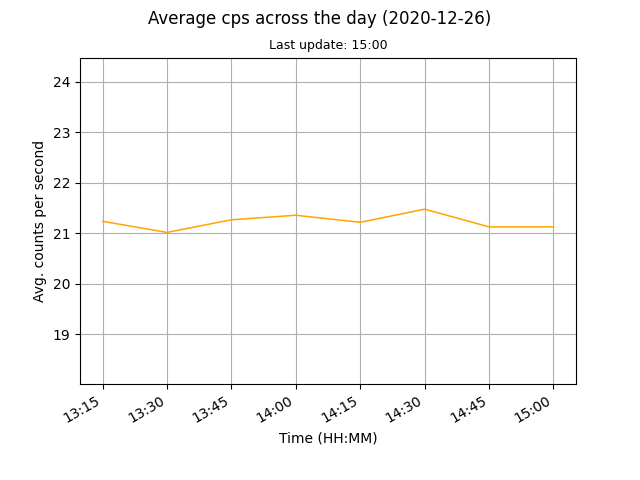
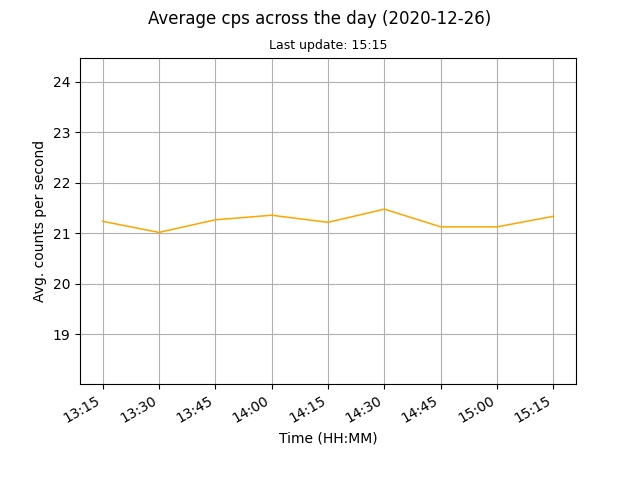
auto data update

diff --git a/docs/index.html b/docs/index.html
@@ -45,8 +45,8 @@
 	
 	<br>
 	
-	<p>Current counts per second (cps): 21.13</p>
-	<p>Last update: 2020-12-26, 15:00</p>
+	<p>Current counts per second (cps): 21.34</p>
+	<p>Last update: 2020-12-26, 15:15</p>
 
 	<p><a href="images/monthly.png"><img src="images/monthly.png" alt="Mothly avg cps data"></a><a href="images/daily.png"><img src="images/daily.png" alt="Daily avg cps data"></a></p>
 	
